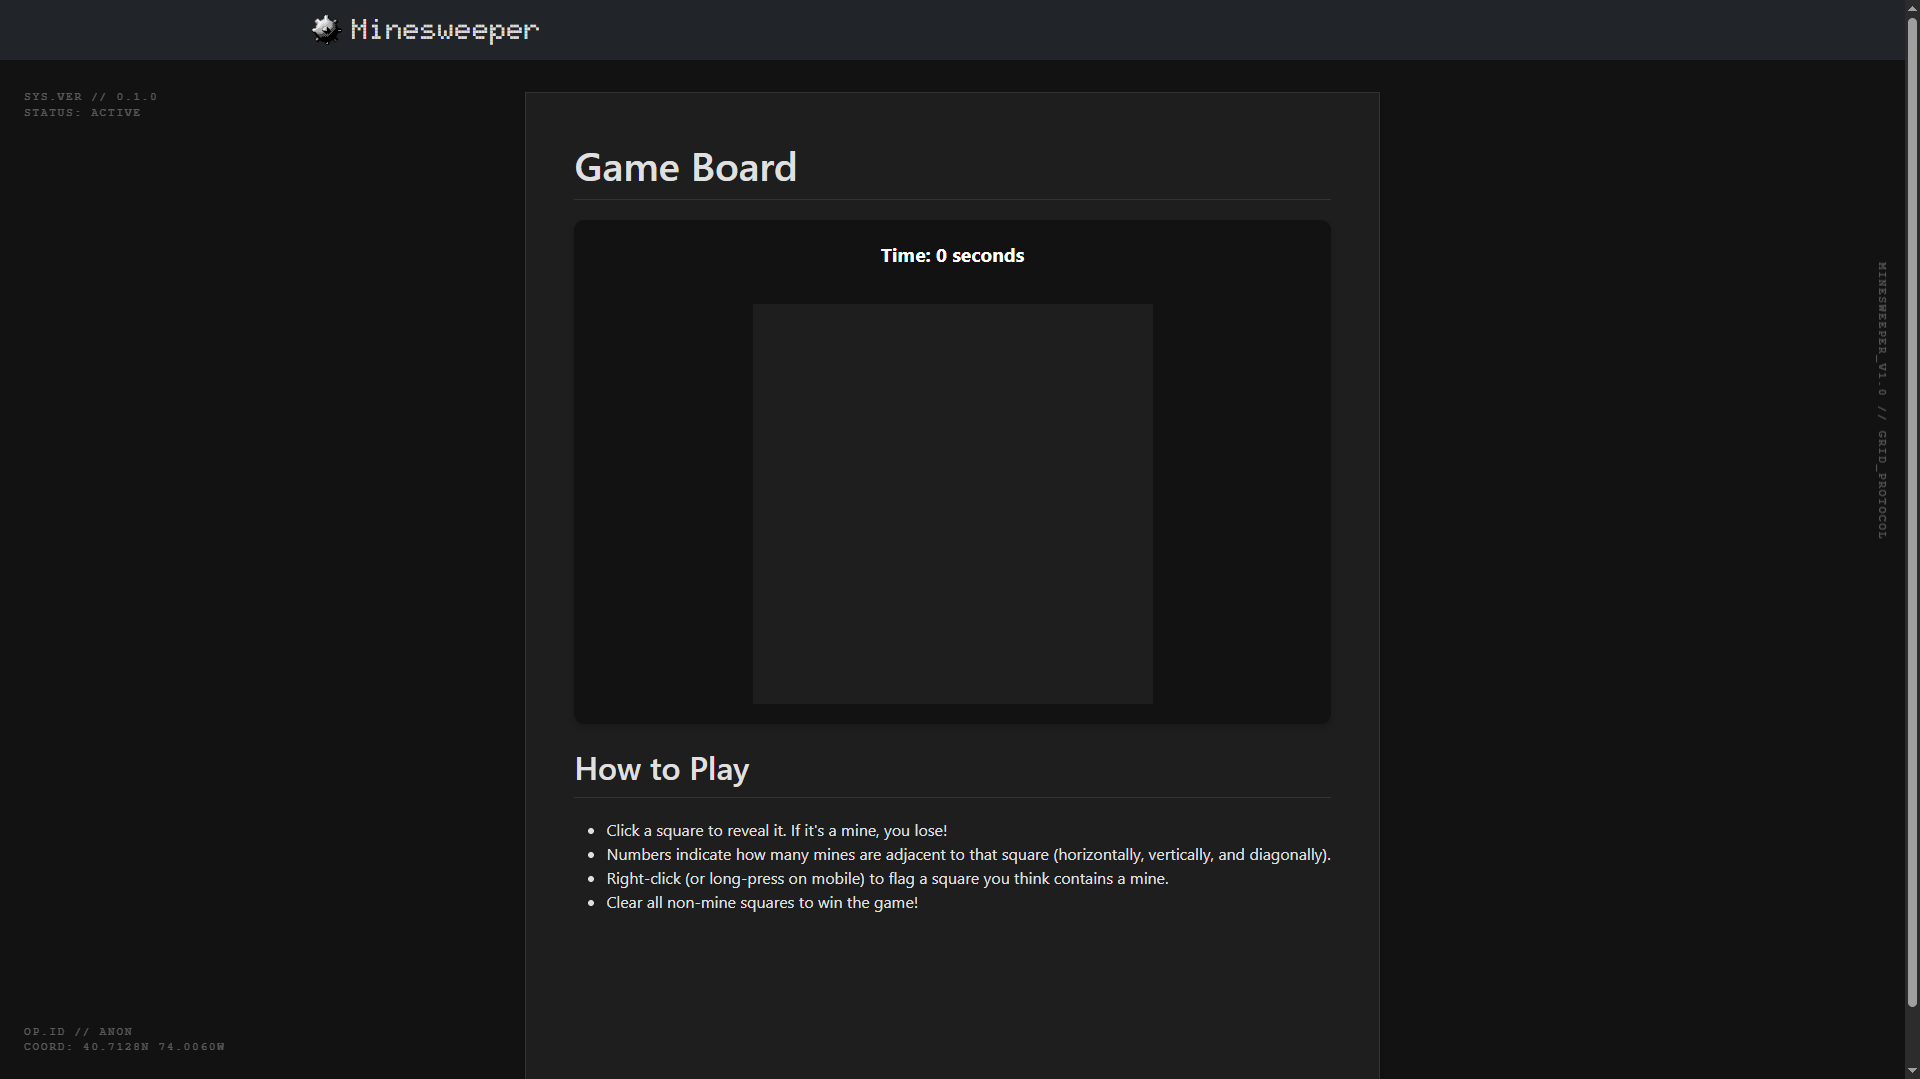
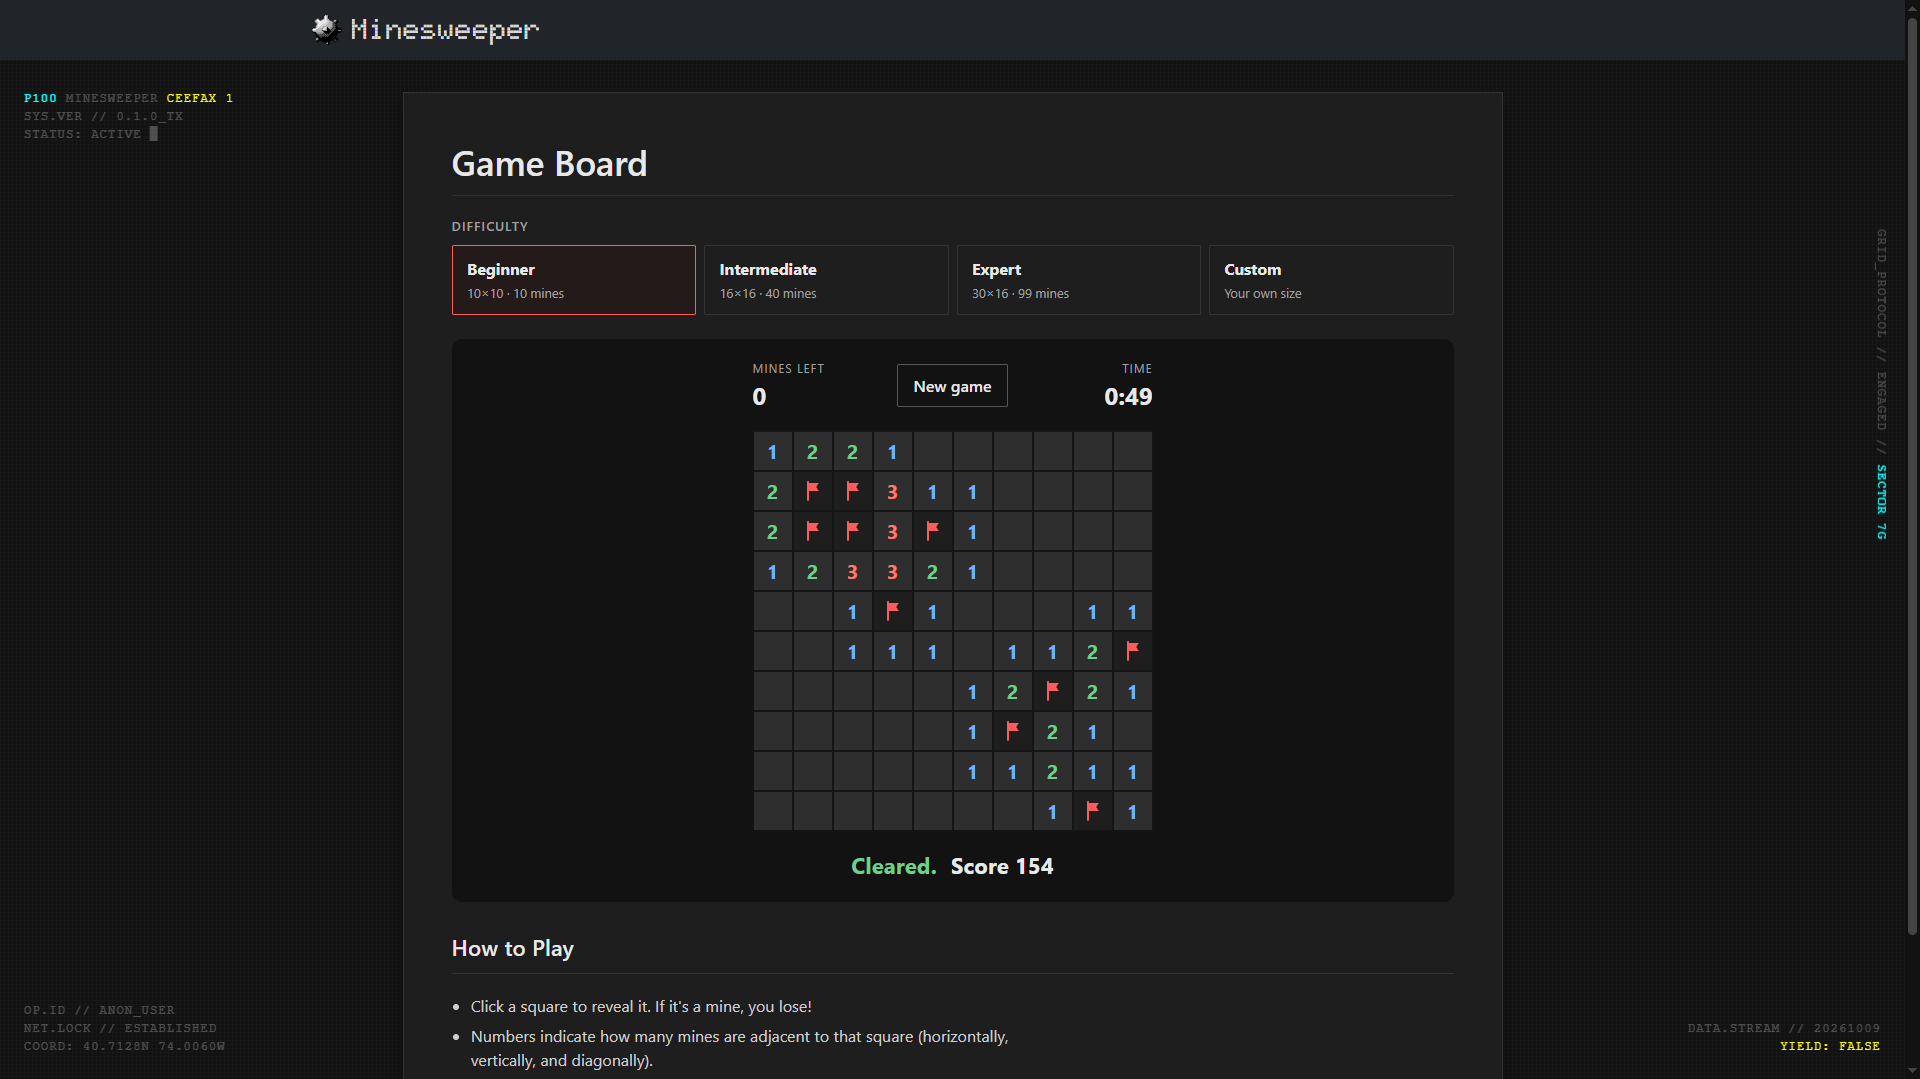
Project Links

diff --git a/src/pages/ProjectsPage.tsx b/src/pages/ProjectsPage.tsx
@@ -10,6 +10,8 @@ import StreamImg from '../assets/Stream.PNG';
 import ScheduleImg from '../assets/Schedule.PNG';
 import JobifyImg from '../assets/Jobify.PNG';
 import CultureShockImg from '../assets/CultureShock.PNG';
+import FlightFinderImg from '../assets/FlightFinder.PNG';
+import AotdleImg from '../assets/Aotdle.PNG';
 
 gsap.registerPlugin(ScrollTrigger);
 
@@ -20,7 +22,8 @@ const projects = [
     color: '#C0B3B3',
     role: 'Fullstack / Game Design',
     date: '2026',
-    image: CultureShockImg
+    image: CultureShockImg,
+    link: 'https://cultureshock.vercel.app/'
   },
   { 
     id: '02', 
@@ -28,7 +31,8 @@ const projects = [
     color: '#eab308',
     role: 'Web App / CV Manager',
     date: '2026',
-    image: JobifyImg
+    image: JobifyImg,
+    link: 'https://jobify-docmanagement.vercel.app/'
   },
   { 
     id: '03', 
@@ -36,7 +40,8 @@ const projects = [
     color: '#B3C0A4',
     role: 'Game Logic / Frontend',
     date: '2024',
-    image: SweeperImg
+    image: SweeperImg,
+    link: 'https://minesweeper-vue-game.vercel.app/'
   },
   { 
     id: '04', 
@@ -44,7 +49,8 @@ const projects = [
     color: '#D6C5B3',
     role: 'Web Audio / UI Design',
     date: '2025',
-    image: PlayerImg
+    image: PlayerImg,
+    link: 'https://vinylplayerdemo.vercel.app/'
   },
   { 
     id: '05', 
@@ -52,7 +58,8 @@ const projects = [
     color: '#B3B8C0',
     role: 'Fullstack / Media Streaming',
     date: '2026',
-    image: StreamImg
+    image: StreamImg,
+    link: 'https://streamifies.vercel.app/'
   },
   { 
     id: '06', 
@@ -60,7 +67,26 @@ const projects = [
     color: '#C0B3B3',
     role: 'Web App / Admin Dashboard',
     date: '2026',
-    image: ScheduleImg
+    image: ScheduleImg,
+    link: 'https://scheduling-demo-main.vercel.app/'
+  },
+  {
+    id: '07',
+    title: 'Flight Finder',
+    color: '#A4B3C0',
+    role: 'Web App',
+    date: '2026',
+    image: FlightFinderImg,
+    link: 'https://flight-finderdemo.vercel.app/'
+  },
+  {
+    id: '08',
+    title: 'Aotdle',
+    color: '#C0B3A4',
+    role: 'Web Game',
+    date: '2026',
+    image: AotdleImg,
+    link: 'https://aotdle.vercel.app/'
   },
 ];
 
@@ -248,16 +274,20 @@ export default function ProjectsPage() {
               Index — Case Study
             </span>
             <AnimatePresence mode="wait">
-              <motion.h1
+              <motion.a
                 key={activeProject.id}
+                href={activeProject.link}
+                target="_blank"
+                rel="noopener noreferrer"
                 className="brutalist-title"
+                style={{ textDecoration: 'none', color: 'inherit', display: 'inline-block' }}
                 initial={{ opacity: 0, filter: "blur(8px)", y: 16 }}
                 animate={{ opacity: 1, filter: "blur(0px)", y: 0 }}
                 exit={{ opacity: 0, filter: "blur(8px)", y: -16 }}
                 transition={{ duration: 0.5, ease: [0.16, 1, 0.3, 1] }}
               >
                 {activeProject.title}
-              </motion.h1>
+              </motion.a>
             </AnimatePresence>
             <AnimatePresence mode="wait">
               <motion.div
